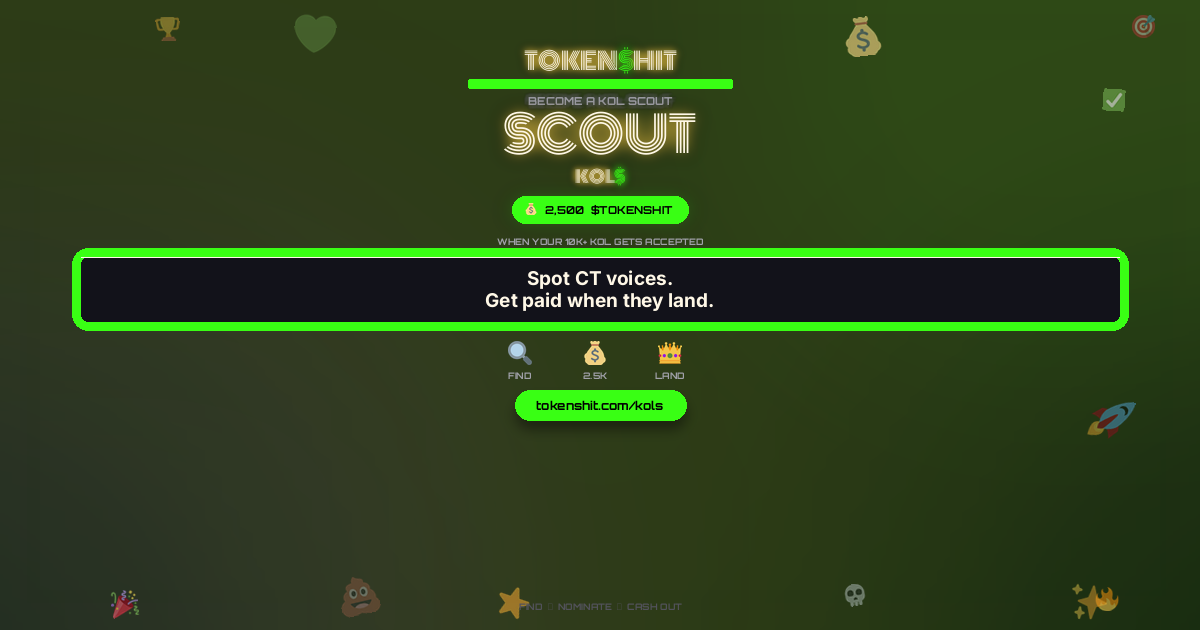
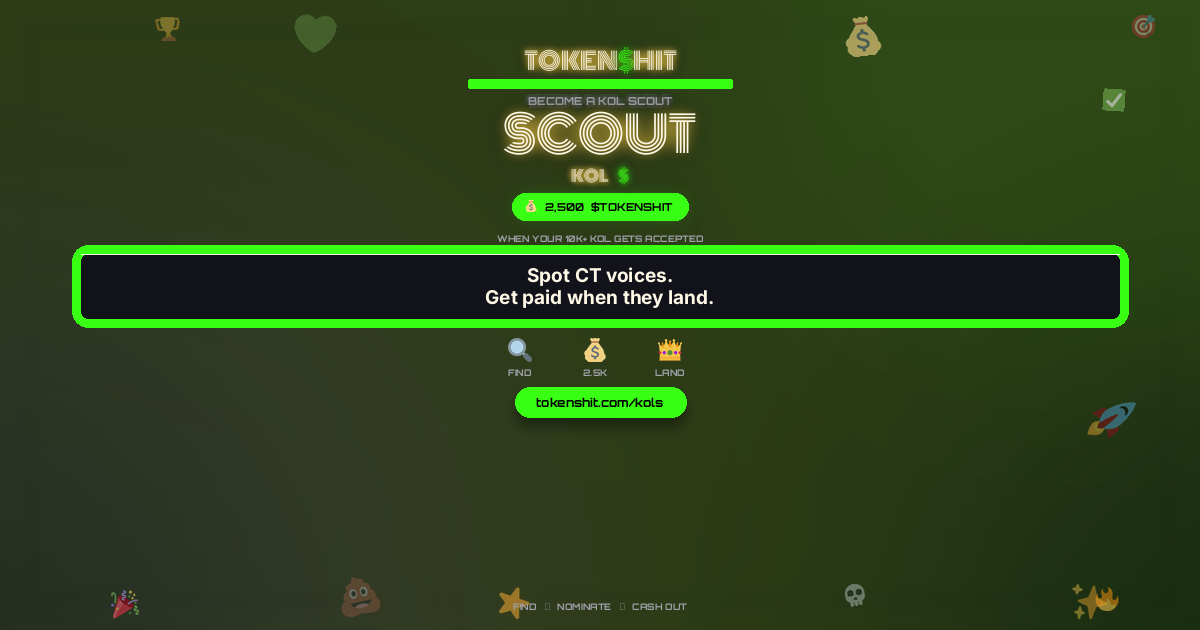
design: KOL poster nits — KOL$ gap, bullets, less bottom void (#355)

Changed region(s): [[0.0617, 0.2413, 0.9558, 0.6937], [0.4317, 0.9349, 0.5858, 0.9651]]

diff --git a/scripts/generate-kols-poster.py b/scripts/generate-kols-poster.py
@@ -327,17 +327,25 @@ def make_poster(size: tuple[int, int], tag: str) -> Image.Image:
     )
     y += hero_sz + fs(8)
 
-    # KOL$ micro lockup under hero
-    ksz = fs(40 if not wide else 26)
+    # KOL$ micro lockup under hero (extra gap — Monoton $ side bearings collide)
+    ksz = fs(36 if not wide else 24)
     kf = load_font("Monoton-Regular.ttf", ksz)
-    k1, kd, k2 = "KOL", "$", ""
-    # just KOL$
-    kt = tw(kf, "KOL") + tw(kf, "$")
+    gap = fs(14)
+    kt = tw(kf, "KOL") + gap + tw(kf, "$")
     kx = w // 2 - kt // 2
-    glow_text(img, (kx + tw(kf, "KOL") // 2, y + ksz // 2), "KOL", kf, CREAM, GOLD, anchor="mm", strength=3)
     glow_text(
         img,
-        (kx + tw(kf, "KOL") + tw(kf, "$") // 2, y + ksz // 2),
+        (kx + tw(kf, "KOL") // 2, y + ksz // 2),
+        "KOL",
+        kf,
+        CREAM,
+        GOLD,
+        anchor="mm",
+        strength=3,
+    )
+    glow_text(
+        img,
+        (kx + tw(kf, "KOL") + gap + tw(kf, "$") // 2, y + ksz // 2),
         "$",
         kf,
         NEON,
@@ -345,7 +353,7 @@ def make_poster(size: tuple[int, int], tag: str) -> Image.Image:
         anchor="mm",
         strength=4,
     )
-    y += ksz + fs(28 if not wide else 16)
+    y += ksz + fs(24 if not wide else 14)
 
     # bounty pill
     pill_h = fs(64 if not wide else 40)
@@ -437,7 +445,7 @@ def make_poster(size: tuple[int, int], tag: str) -> Image.Image:
         sf = load_font("Orbitron-Bold.ttf", fs(18))
         ImageDraw.Draw(img).text(
             (w // 2, y + card_h - fs(36)),
-            "HIT · SHIT  ·  COURT COMING",
+            "HIT  /  SHIT   ·   COURT SOON",
             font=sf,
             fill=(*DIM, 255),
             anchor="mm",
@@ -458,7 +466,7 @@ def make_poster(size: tuple[int, int], tag: str) -> Image.Image:
         ]
         for i, (cp, lab, sub) in enumerate(specs):
             chip(img, x0 + i * (chip_w + gap), y + chip_h // 2, chip_w, chip_h, cp, lab, sub)
-        y += chip_h + fs(36)
+        y += chip_h + fs(28)
     else:
         # compact horizontal labels
         specs = [("1f50d", "FIND"), ("1f4b0", "2.5K"), ("1f451", "LAND")]
@@ -485,7 +493,12 @@ def make_poster(size: tuple[int, int], tag: str) -> Image.Image:
     cf = load_font("Orbitron-Bold.ttf", fs(28 if not wide else 18))
     cta_w = tw(cf, cta) + fs(64)
     cta_h = fs(72 if not wide else 44)
-    # keep CTA on canvas
+    # Prefer snug under chips; avoid huge bottom void on 4:5
+    if not wide and not tall:
+        y = min(y, int(h * 0.82) - cta_h)
+    if tall:
+        # lift CTA into lower-middle rather than near footer
+        y = min(y, int(h * 0.78) - cta_h)
     if y + cta_h > h - fs(70):
         y = h - fs(70) - cta_h
     cx0 = w // 2 - cta_w // 2
@@ -514,11 +527,17 @@ def make_poster(size: tuple[int, int], tag: str) -> Image.Image:
         ff = load_font("Orbitron-Bold.ttf", fs(16 if not wide else 12))
         ImageDraw.Draw(img).text(
             (w // 2, h - fs(36)),
-            "FIND  ·  NOMINATE  ·  CASH OUT",
+            "FIND   ·   NOMINATE   ·   CASH OUT",
             font=ff,
-            fill=(*DIM, 255),
+            fill=(*MUTED, 255),
             anchor="mm",
         )
+
+    # fill empty lower third lightly (tall only) without covering CTA
+    if tall:
+        lower_clear = (int(w * 0.12), int(h * 0.72), int(w * 0.88), int(h * 0.88))
+        # inverse: scatter only outside that CTA band... use bottom band
+        scatter(img, f"kol-bottom-{tag}-{w}x{h}", (int(w*0.25), int(h*0.55), int(w*0.75), int(h*0.78)), n=8)
 
     return img.convert("RGB")
 
